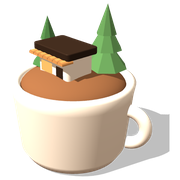
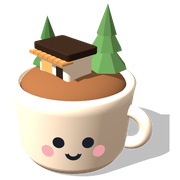
카영: 아이콘 커피잔에 카영이 얼굴 추가
Claude-Session: https://claude.ai/code/session_01PMfggq8PzajLUV5htKnLMb

Changed region(s): [[0.3611, 0.75, 0.5833, 0.9167], [0.2222, 0.75, 0.3611, 0.8889]]

diff --git a/docs/cafe/play/index.html b/docs/cafe/play/index.html
@@ -15,9 +15,9 @@
 <meta property="og:image:height" content="630">
 <meta name="twitter:card" content="summary_large_image">
 <meta name="theme-color" content="#140E0A">
-<link rel="icon" href="/cafe/play/cafe-icon-48.png?v=2" sizes="48x48" type="image/png">
-<link rel="icon" href="/cafe/play/cafe-icon-32.png?v=2" sizes="32x32" type="image/png">
-<link rel="apple-touch-icon" href="/cafe/play/cafe-icon-180.png?v=2">
+<link rel="icon" href="/cafe/play/cafe-icon-48.png?v=3" sizes="48x48" type="image/png">
+<link rel="icon" href="/cafe/play/cafe-icon-32.png?v=3" sizes="32x32" type="image/png">
+<link rel="apple-touch-icon" href="/cafe/play/cafe-icon-180.png?v=3">
 <script>window.dataLayer=window.dataLayer||[];function gtag(){dataLayer.push(arguments)}gtag('js',new Date());gtag('config','G-ZTK7QZC3NK');addEventListener('load',function(){setTimeout(function(){var s=document.createElement('script');s.async=1;s.src='https://www.googletagmanager.com/gtag/js?id=G-ZTK7QZC3NK';document.head.appendChild(s)},1500)});</script>
 <style>[hidden]{display:none!important}</style>
 </head>
